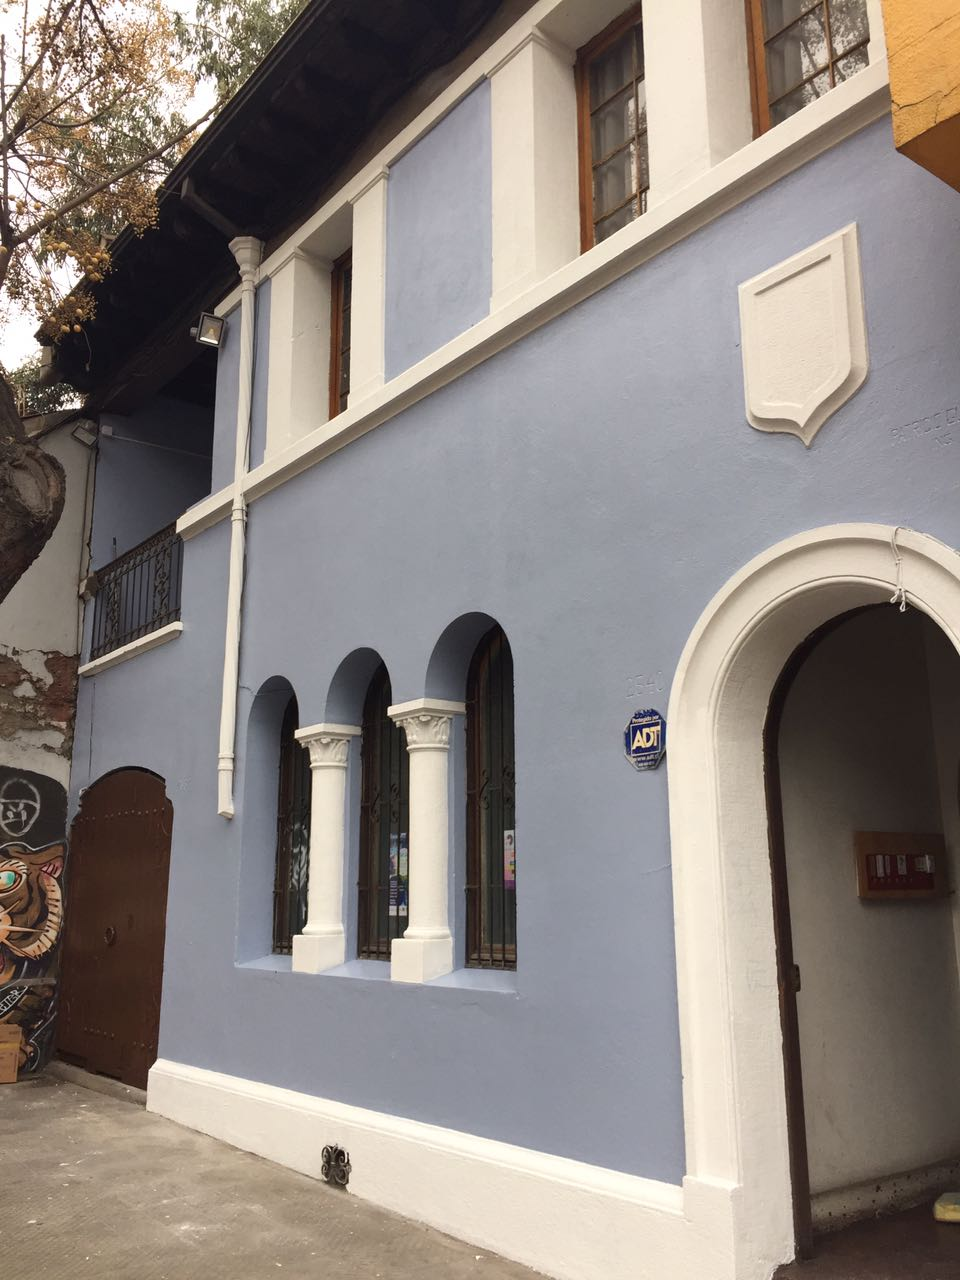
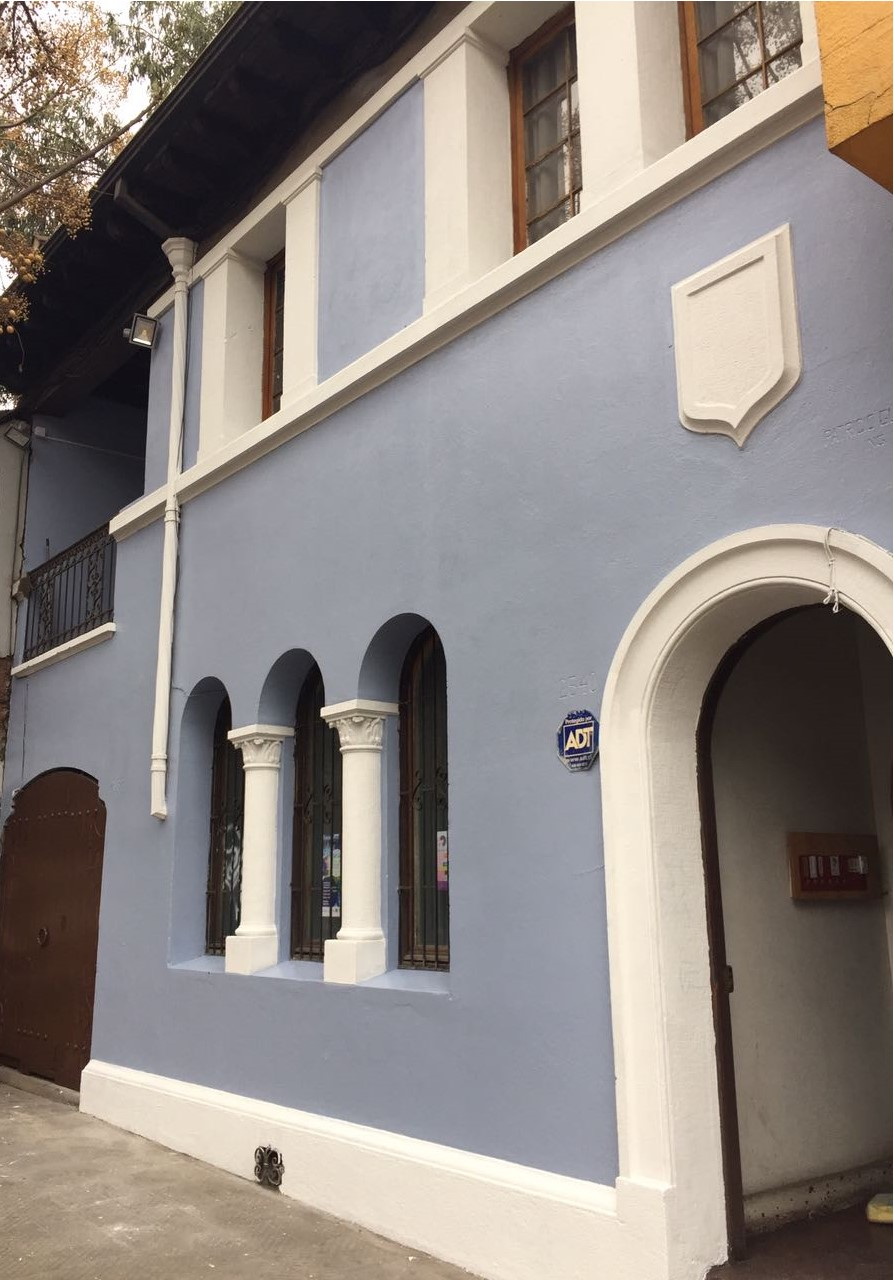
Footer arreglado; Nuevas imagenes

diff --git a/src/app/components/banner/banner.component.html b/src/app/components/banner/banner.component.html
@@ -19,29 +19,38 @@
       </div>
     </article>
     <article>
-      <img src="assets/images/slide03.jpg"  alt="" />
+      <img src="assets/images/condominio02.jpg"  alt="" />
       <div class="inner">
         <header>
-          <p>Sed cursus aliuam veroeros lorem ipsum nullam</p>
-          <div class="titulo"><h2>Tempus dolor</h2></div>
+          <div class="subtitulo"><p>OBRAS</p></div>
+          <div class="titulo"><h2>Condominio 2</h2></div>
         </header>
       </div>
     </article>
     <article>
-      <img src="assets/images/slide04.jpg"  alt="" />
+      <img src="assets/images/granaderos01.jpg"  alt="" />
       <div class="inner">
         <header>
-          <p>Adipiscing lorem ipsum feugiat sed phasellus consequat</p>
-          <div class="titulo"><h2>Etiam feugiat</h2></div>
+          <div class="subtitulo"><p>OBRAS</p></div>
+          <div class="titulo"><h2>Condominio 3</h2></div>
         </header>
       </div>
     </article>
     <article>
-      <img src="assets/images/slide05.jpg"  alt="" />
+      <img src="assets/images/lote01.jpg"  alt="" />
       <div class="inner">
         <header>
-          <p>Ipsum dolor sed magna veroeros lorem ipsum</p>
-          <div class="titulo"><h2>Lorem adipiscing</h2></div>
+          <div class="subtitulo"><p>OBRAS</p></div>
+          <div class="titulo"><h2>Loteo</h2></div>
+        </header>
+      </div>
+    </article>
+    <article>
+      <img src="assets/images/asbesto01.jpg"  alt="" />
+      <div class="inner">
+        <header>
+          <div class="subtitulo"><p>Servicios</p></div>
+          <div class="titulo"><h2>Retiro de Asbesto</h2></div>
         </header>
       </div>
     </article>

diff --git a/src/assets/css/custom.css b/src/assets/css/custom.css
@@ -10,29 +10,52 @@
 
 /* Reset */
 
-#footer img {
-  max-width: 50%;
-  max-height: 100%;
-  /* margin-bottom: 30px; */
-}
-
 #footer .contact {
   color: #bbb;
-  padding-bottom: 1em;
-  font-size: 1vw;
+}
+
+/* #footer .bg{
+  background-color: #000;
+  color: #bfbfbf;
+  background-image: url(../../assets/images/oficina02.jpg);
+  background-size:cover;
+  background-repeat: no-repeat;
+  background-attachment: fixed;
+  background-position: top;
+  position: relative;
+  -webkit-filter: brightness(35%);
+  filter: brightness(35%);
+} */
+
+#footer.wrapper.style3.bg{
+    background-color: #000;
+    color: #bfbfbf;
+    background-image: url(../../assets/images/oficina01.jpg); /* FONDO */
+    background-size: cover;
+    background-attachment: fixed;
+    background-position: center;
+    position: relative;
+    padding: 3rem 3rem;
 }
 
 .contact h1{
-  font-size: 3vw;
+  font-size: 1.5rem;
 }
 
 .contact h2{
-  font-size: 3vw;
+  font-size: 1.5rem;
+  letter-spacing: 0.0625em;
+  word-spacing: -0.3em;
 }
 
 .contact h6{
-  font-size: 2vw;
+  padding-top: 0.4em;
+  font-size: 1.1rem;
 }
+
+/* .contact h5{
+  font-size: 1.1rem;
+} */
 
 /* ONE Sombra tipo card css */
 box .shadow {

diff --git a/src/app/components/footer/footer.component.html b/src/app/components/footer/footer.component.html
@@ -1,23 +1,15 @@
-<!-- Footer -->
-  <footer id="footer">
-
-    <div class="container">
-      <div class="row contact">
-
-        <div class="col-lg align-center">
-          <h1><span class="fa fa-phone-square"></span></h1>
-          <h2>{{ correo }}</h2>
-          <h6>{{ direccion }}</h6>
-          <h6>(2){{ telefono }}</h6>
+<footer id="footer" class="wrapper style3 bg">
+  <div class="inner">
+      <div class="container">
+        <div class="row contact">
+          <div class="col-lg align-center">
+            <h1><span class="fa fa-envelope-o"></span></h1>
+            <h2>{{ correo }}</h2>
+            <h6>{{ direccion }}</h6>
+            <h6>(2){{ telefono }}</h6>
+            &copy; MDA {{ anio }}. Todos los derechos reservados.
+          </div>
         </div>
       </div>
-
-      <div class="row contact">
-        <div class="col-lg align-center">
-          &copy; MDA {{ anio }}. Todos los derechos reservados.
-        </div>
-      </div>
-
-    </div>
-
-  </footer>
+  </div>
+</footer>

diff --git a/src/assets/css/main.css b/src/assets/css/main.css
@@ -3101,7 +3101,7 @@
 		.wrapper.style3 {
 			background-color: #000;
 			color: #bfbfbf;
-			background-image: url(../../assets/images/bg.jpg);
+			background-image: url(../../assets/images/bg.jpg); /* FONDO */
 			background-size: cover;
 			background-attachment: fixed;
 			background-position: center;
@@ -4303,7 +4303,7 @@
 /* Footer */
 
 	#footer {
-		padding: 2rem 0 1rem 0 ;
+		/* padding: 2rem 0 1rem 0 ; */
 		background: #000; /* Color footer */
 		/* text-align: center; */
 	}

diff --git a/src/app/components/footer/footer.component.ts b/src/app/components/footer/footer.component.ts
@@ -12,7 +12,7 @@ export class FooterComponent {
   public anio:number = new Date().getFullYear();
 
   public direccion:string = "Compañía #2540 Oficina 103, Santiago";
-  public correo:string = "mda.arq@gmail.com";
+  public correo:string = "mda.arq@ gmail.com";
   public telefono:number = 26825253;
 
 }
